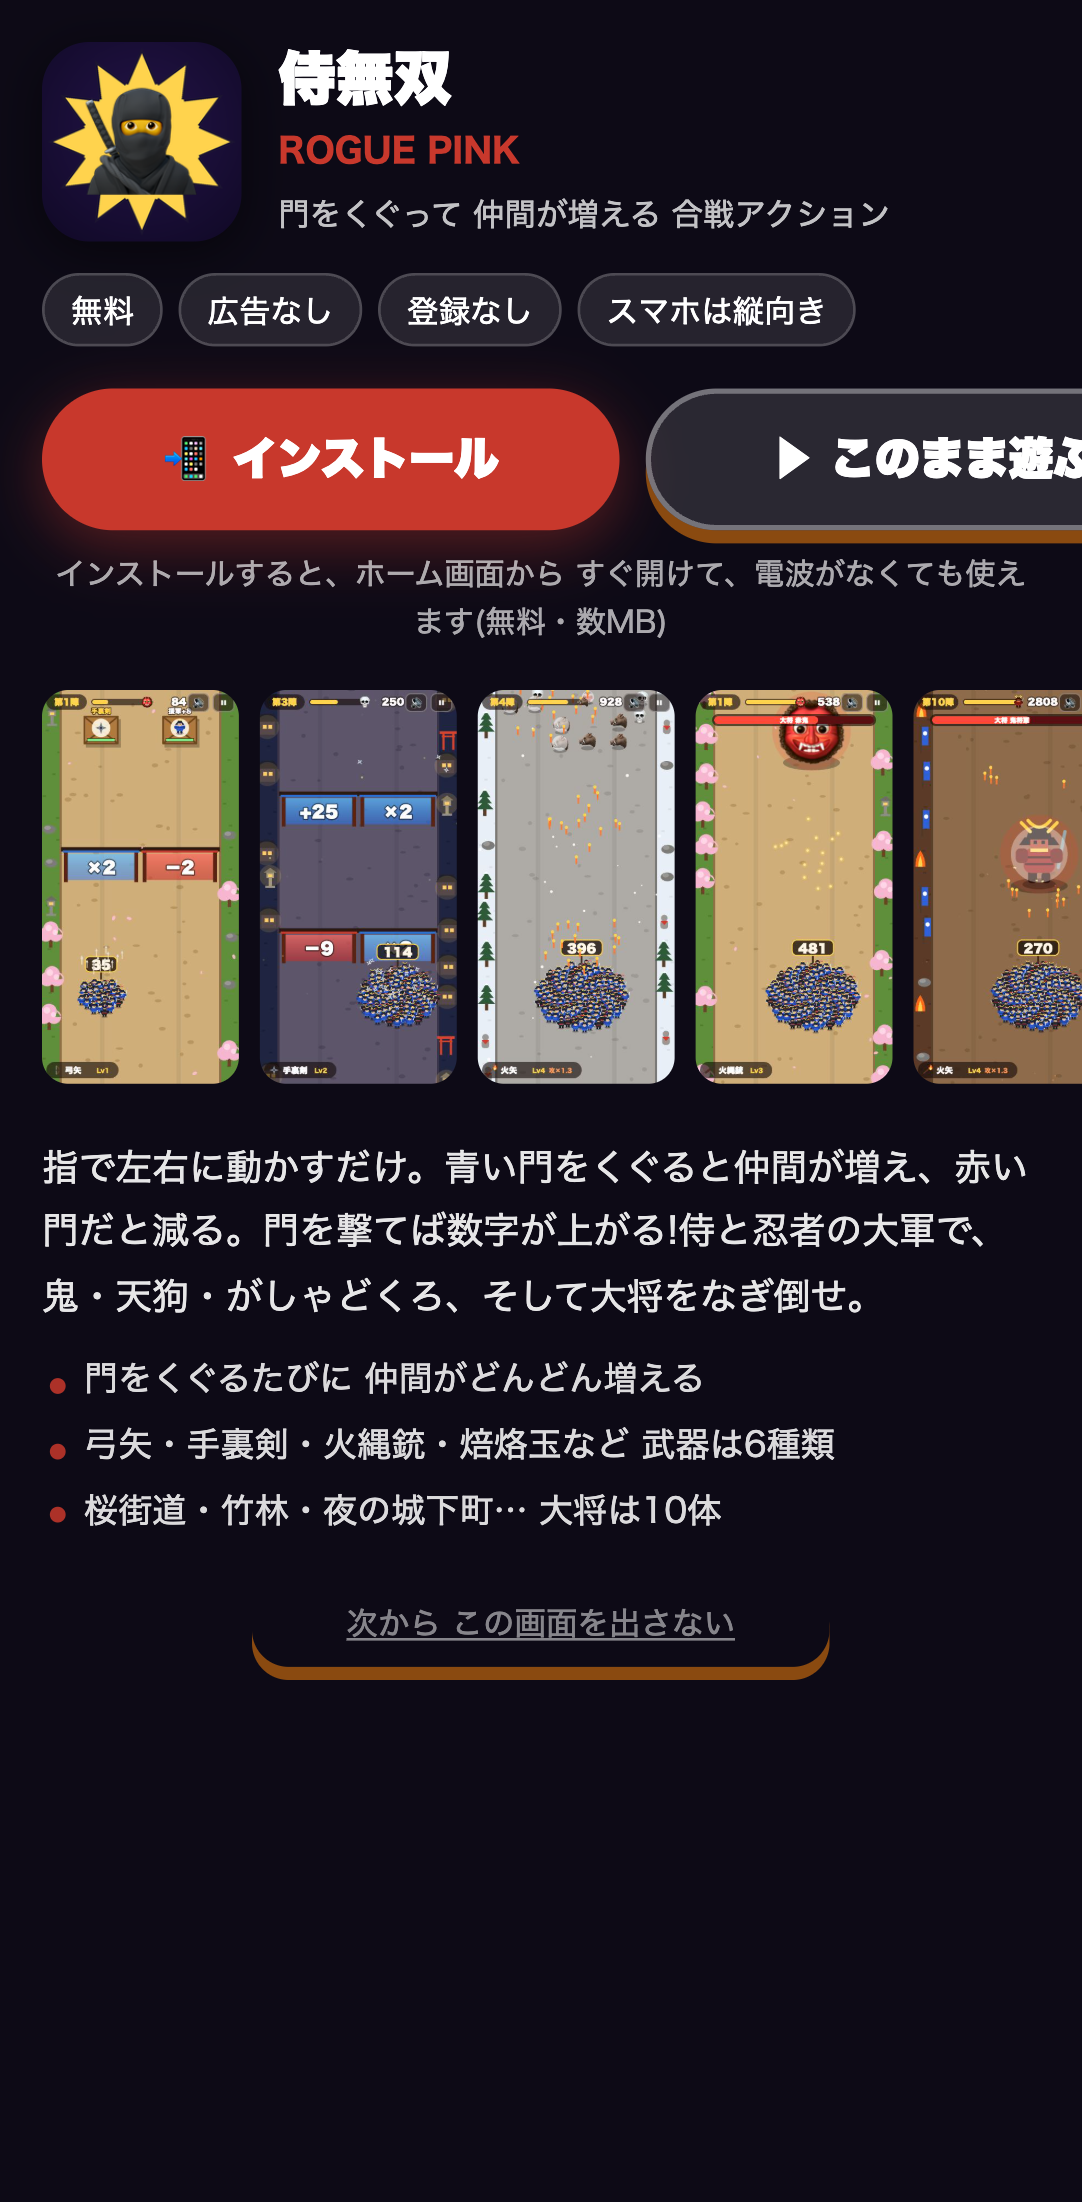
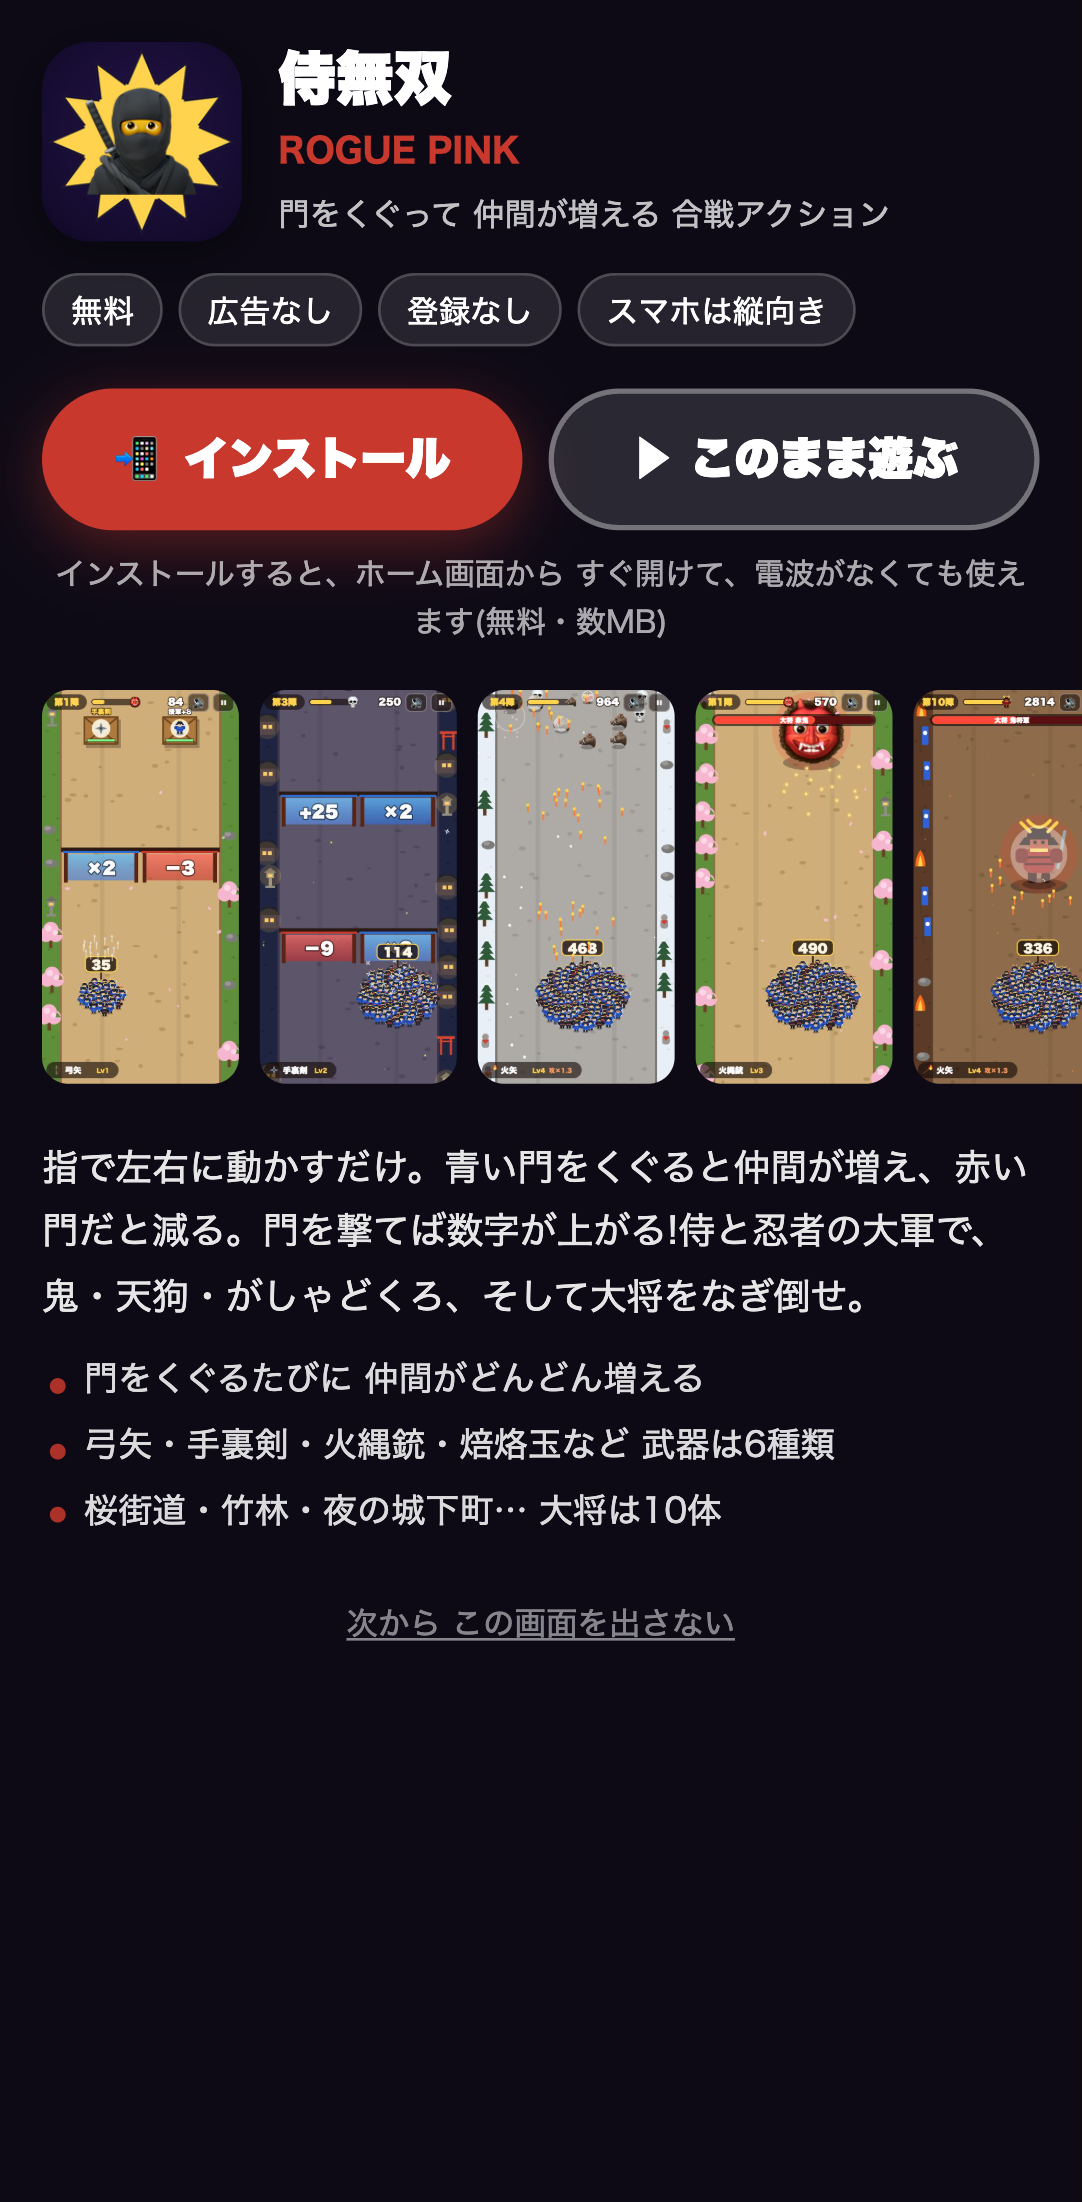
はじめの画面のボタンが切れるのを直す

diff --git a/index.html b/index.html
@@ -42,11 +42,11 @@
     padding: 10px 14px; text-align: left; max-width: 340px; }
   .rules b { color: #ffd34d; }
   .rules .blue { color: #7fd8ff; } .rules .red { color: #ff7b6b; }
-  button { font: inherit; font-weight: 900; font-size: 22px; padding: 14px 40px; border: 3px solid #3a1408; border-radius: 14px;
+  .overlay button, #ctl button { font: inherit; font-weight: 900; font-size: 22px; padding: 14px 40px; border: 3px solid #3a1408; border-radius: 14px;
     background: linear-gradient(#ffdf6a, #f0a830); color: #3a1408; cursor: pointer; touch-action: manipulation; -webkit-tap-highlight-color: transparent;
     box-shadow: 0 5px 0 #8a4a10; min-width: 220px; }
-  button:active { transform: translateY(3px); box-shadow: 0 2px 0 #8a4a10; }
-  button.sub { font-size: 16px; padding: 10px 24px; background: rgba(255,255,255,.12); color: #fff; border-color: rgba(255,255,255,.35); box-shadow: none; min-width: 0; }
+  .overlay button:active { transform: translateY(3px); box-shadow: 0 2px 0 #8a4a10; }
+  .overlay button.sub { font-size: 16px; padding: 10px 24px; background: rgba(255,255,255,.12); color: #fff; border-color: rgba(255,255,255,.35); box-shadow: none; min-width: 0; }
   #ctl { position: fixed; top: calc(env(safe-area-inset-top) + 6px); right: 8px; display: flex; gap: 6px; z-index: 4; }
   #ctl button { min-width: 0; width: 40px; height: 34px; padding: 0; font-size: 17px; border-radius: 10px; border: 2px solid rgba(255,255,255,.35);
     background: rgba(20,10,8,.55); color: #fff; box-shadow: none; }
